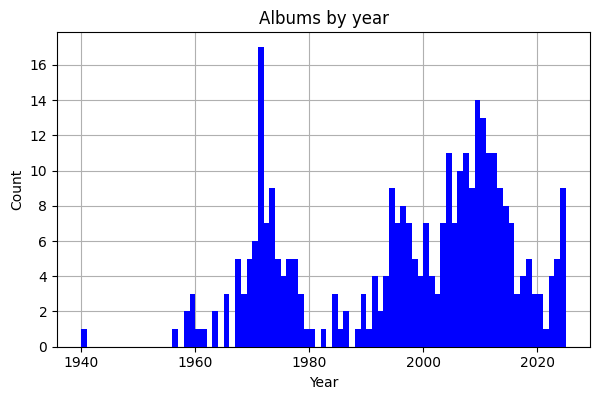
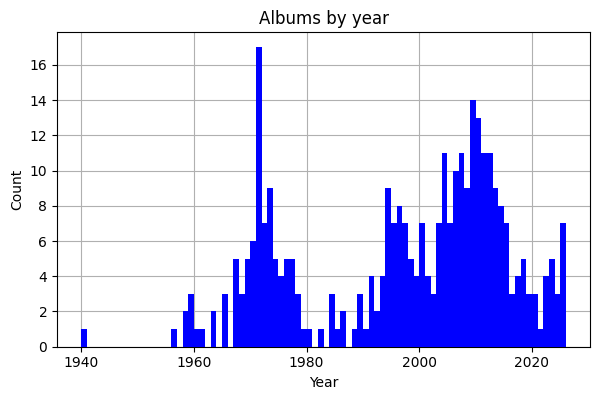
Add nature sounds

diff --git a/README.md b/README.md
@@ -31,16 +31,17 @@
 12. [House (15)](#house)
 13. [Jazz (17)](#jazz)
 14. [Minimalism (4)](#minimalism)
-15. [None (4)](#none)
-16. [Primitivism (5)](#primitivism)
-17. [Prog (15)](#prog)
-18. [Psychedelic (9)](#psychedelic)
-19. [Road trip (272)](#road-trip)
-20. [Snarky Matthew (7)](#snarky-matthew)
-21. [Sound Island (8)](#sound-island)
-22. [This is the pine club (15)](#this-is-the-pine-club)
-23. [World music (22)](#world-music)
-24. [All albums (331)](#all-albums)
+15. [Nature sounds (1)](#nature-sounds)
+16. [None (4)](#none)
+17. [Primitivism (5)](#primitivism)
+18. [Prog (15)](#prog)
+19. [Psychedelic (9)](#psychedelic)
+20. [Road trip (272)](#road-trip)
+21. [Snarky Matthew (7)](#snarky-matthew)
+22. [Sound Island (8)](#sound-island)
+23. [This is the pine club (15)](#this-is-the-pine-club)
+24. [World music (22)](#world-music)
+25. [All albums (332)](#all-albums)
 
 ## Abseil
 
@@ -387,6 +388,10 @@
 - 1978 - Steve Reich - Music for 18 musicians
 - 1989 - Steve Reich - Different trains, electric counterpoint
 - 1994 - Steve Reich - Tehillim, Three Movements
+
+## Nature sounds
+
+- 2026 - Nature sounds - Nature sounds
 
 ## None
 
@@ -1105,3 +1110,4 @@
 - 2025 - Sound Island - no vocal focus music for deep concentration
 - 2025 - Sound Island - no vocals house music for studying working coding - from distraction to focus
 - 2025 - Sound Island - study house music - no vocals - study with me - organic house set
+- 2026 - Nature sounds - Nature sounds